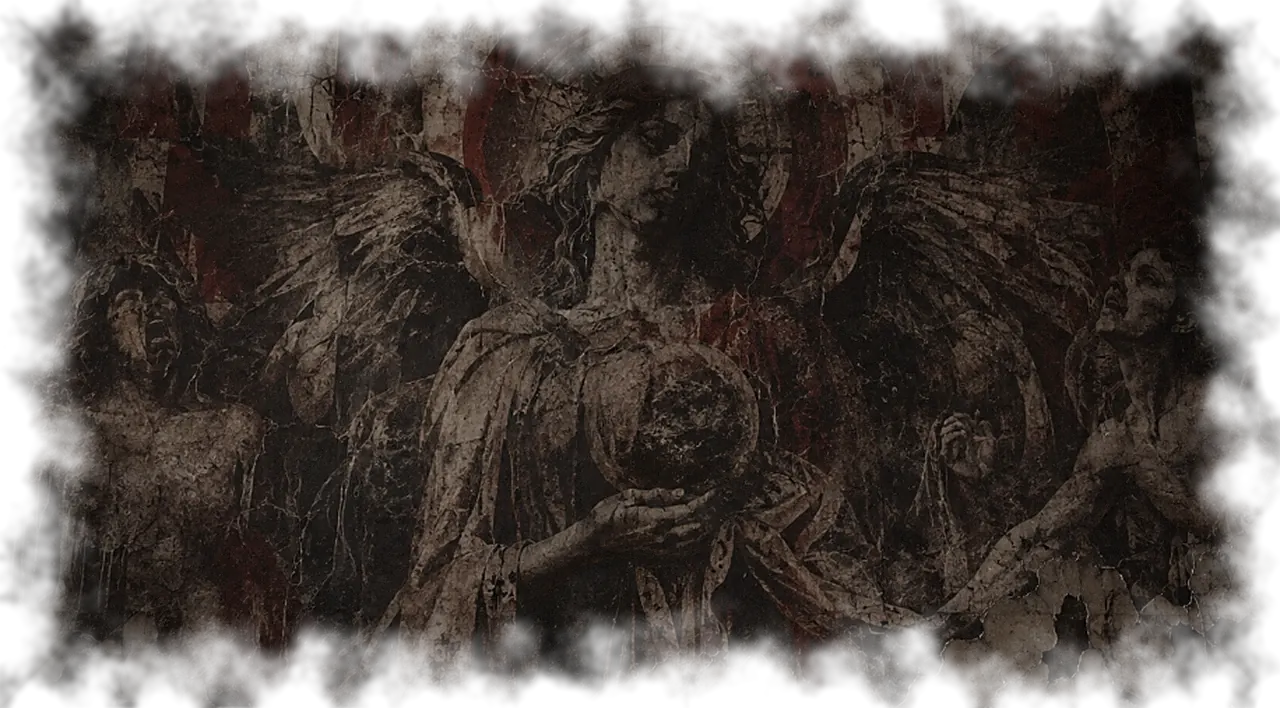
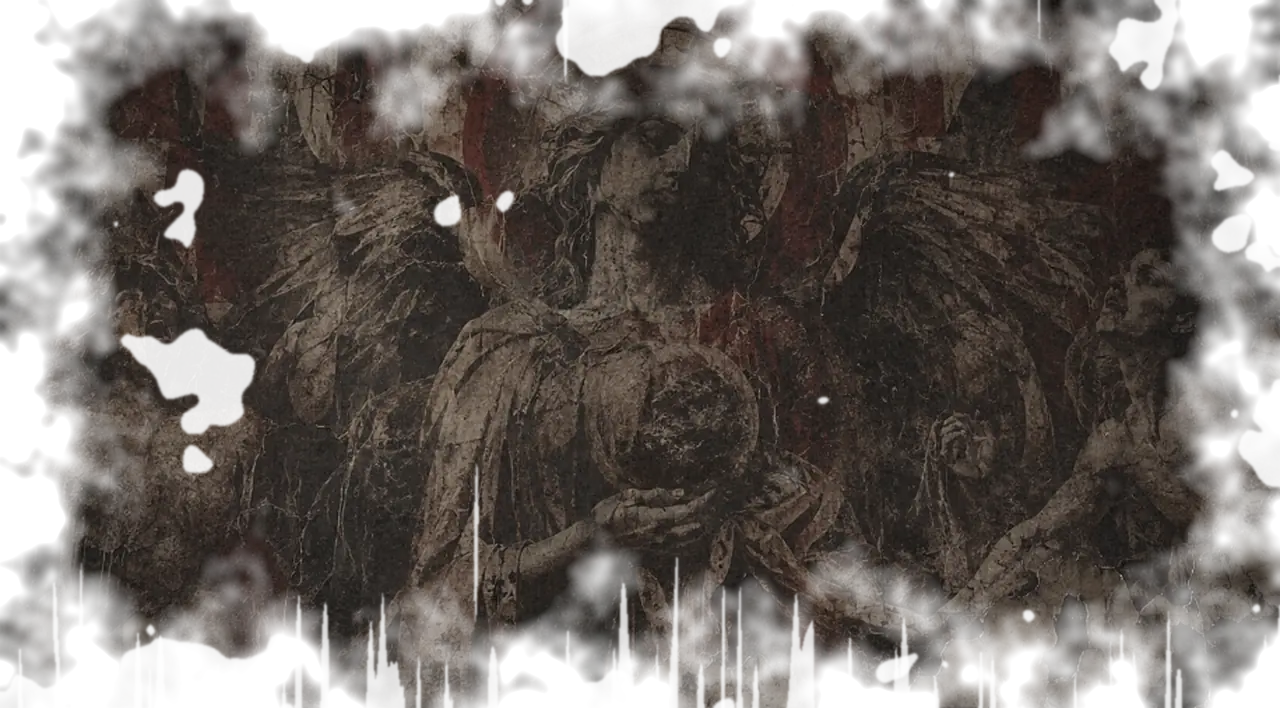
Murales: effetto affresco dipinto sul muro (bordi che si perdono, intonaco caduto, colature), non piu' carta/quadro
Claude-Session: https://claude.ai/code/session_014dApnh5cQuMdZvTWDcVASP

diff --git a/sw.js b/sw.js
@@ -2,8 +2,8 @@
  * - Shell (html/css/js/vendor/icone): precache, cache-first. Nuova versione => nuovo SW "in attesa" => banner nell'app.
  * - Asset pesanti (modelli, texture, audio): cache separata; scaricati in background dopo l'installazione.
  * Le due versioni qui sotto le aggiorna tools/bump.sh a ogni modifica (hash del contenuto): non toccarle a mano. */
-const SHELL_VERSION = 'dd8d779f20';   // @shell
-const ASSET_VERSION = 'e5281386e5';   // @assets
+const SHELL_VERSION = 'a172b86ffb';   // @shell
+const ASSET_VERSION = '2dac8a62f7';   // @assets
 const SHELL = 'ng-shell-' + SHELL_VERSION, ASSETS = 'ng-assets-' + ASSET_VERSION;
 const SHELL_FILES = ['./','./css/style.css','./icons/icon-180.png','./icons/icon-192.png','./icons/icon-32.png','./icons/icon-512.png','./icons/maskable-512.png','./index.html','./js/audio/audio.js','./js/events/ambient.js','./js/events/cellar.js','./js/events/combat.js','./js/events/dawn.js','./js/events/door.js','./js/events/glass.js','./js/events/hall.js','./js/events/morgue.js','./js/events/notes.js','./js/events/rats.js','./js/events/scare.js','./js/events/sorella.js','./js/events/tower.js','./js/events/tv.js','./js/events/ward.js','./js/events/warehouse.js','./js/main.js','./js/personal.js','./js/player/controls.js','./js/player/player.js','./js/pwa.js','./js/story.js','./js/ui/instability.js','./js/ui/rgbshift.js','./js/world/atmos.js','./js/world/blood.js','./js/world/bloodfont.js','./js/world/decor.js','./js/world/dust.js','./js/world/extra.js','./js/world/fingerwrite.js','./js/world/lights.js','./js/world/materials.js','./js/world/nun.js','./js/world/props.js','./js/world/redlight.js','./js/world/rooms.js','./js/world/tunnel.js','./manifest.webmanifest','./vendor/three/LICENSE','./vendor/three/Reflector.js','./vendor/three/loaders/GLTFLoader.js','./vendor/three/three.module.min.js','./vendor/three/utils/BufferGeometryUtils.js']; // @shellfiles
 const ASSET_FILES = ['./assets/audio/step0.mp3','./assets/audio/step1.mp3','./assets/audio/step2.mp3','./assets/audio/step3.mp3','./assets/audio/step4.mp3','./assets/models/ammo.glb','./assets/models/axe.glb','./assets/models/bin.glb','./assets/models/c_nurse.glb','./assets/models/c_occ.glb','./assets/models/cabinet.glb','./assets/models/cam.glb','./assets/models/can.glb','./assets/models/cart.glb','./assets/models/chair.glb','./assets/models/door.glb','./assets/models/gate.glb','./assets/models/hlamp.glb','./assets/models/hs_bed.glb','./assets/models/hw_door_1.glb','./assets/models/hw_wheel_chair.glb','./assets/models/kit_cables.glb','./assets/models/kit_fence.glb','./assets/models/kit_gutter.glb','./assets/models/kit_ind.glb','./assets/models/kit_manhole.glb','./assets/models/kit_pipes.glb','./assets/models/lamp.glb','./assets/models/m_bell.glb','./assets/models/m_diver.glb','./assets/models/m_nurse.glb','./assets/models/m_occ.glb','./assets/models/m_pirate.glb','./assets/models/m_root.glb','./assets/models/m_varka.glb','./assets/models/m_whisperer.glb','./assets/models/mg_chair.glb','./assets/models/mg_tool1.glb','./assets/models/mg_tool3.glb','./assets/models/mg_tool4.glb','./assets/models/mg_wall.glb','./assets/models/pistol.glb','./assets/models/rack.glb','./assets/models/rim.glb','./assets/models/seclight.glb','./assets/models/shelf.glb','./assets/models/slamp1.glb','./assets/models/slamp2.glb','./assets/models/sorella.glb','./assets/models/stool.glb','./assets/models/stove.glb','./assets/models/tank.glb','./assets/models/whisperer.glb','./assets/models/wlamp.glb','./assets/models/x_basket.glb','./assets/models/x_bust.glb','./assets/models/x_clock.glb','./assets/models/x_gnome.glb','./assets/models/x_lion.glb','./assets/models/x_micro.glb','./assets/models/x_rat.glb','./assets/models/x_screen.glb','./assets/models/x_spray.glb','./assets/models/x_tv.glb','./assets/models/x_watch.glb','./assets/tex/bath_bg.jpg','./assets/tex/blood_font.png','./assets/tex/blood_real.png','./assets/tex/brick_c.jpg','./assets/tex/brick_n.jpg','./assets/tex/brick_orm.jpg','./assets/tex/floorA_c.jpg','./assets/tex/floorA_n.jpg','./assets/tex/floorA_orm.jpg','./assets/tex/floorB_c.jpg','./assets/tex/floorB_n.jpg','./assets/tex/floorB_orm.jpg','./assets/tex/foot_l.png','./assets/tex/foot_r.png','./assets/tex/hall_bg.jpg','./assets/tex/handA.png','./assets/tex/handC.png','./assets/tex/mg_floor.jpg','./assets/tex/night_bg.jpg','./assets/tex/pic_anatomy.webp','./assets/tex/pic_charcoal.webp','./assets/tex/pic_corridor.webp','./assets/tex/pic_drawing.jpg','./assets/tex/pic_drawing2.webp','./assets/tex/pic_elisa.jpg','./assets/tex/pic_family.webp','./assets/tex/pic_mural_angel.webp','./assets/tex/pic_mural_cathedral.webp','./assets/tex/pic_mural_eyes.webp','./assets/tex/pic_mural_wide.webp','./assets/tex/pic_saint.webp','./assets/tex/pic_window.webp','./assets/tex/pic_yana.jpg','./assets/tex/rust_c.jpg','./assets/tex/rust_n.jpg','./assets/tex/rust_orm.jpg','./assets/tex/stone_c.jpg','./assets/tex/stone_n.jpg','./assets/tex/stone_orm.jpg','./assets/tex/ward_ceiling.jpg','./assets/tex/wr_elisa_1.png','./assets/tex/wr_elisa_2.png','./assets/tex/wr_elisa_3.png','./assets/tex/wr_elisa_4.png','./assets/tex/wr_elisa_h.png','./assets/tex/wr_elisa_m.png','./assets/tex/wr_elisa_o.png','./assets/tex/wr_sigil.png','./assets/tex/wr_std_c2.png','./assets/tex/wr_std_h.png','./assets/tex/wr_std_m.png','./assets/tex/wr_std_o.png','./assets/tex/wr_std_t1.png','./assets/tex/wr_std_t3.png','./assets/tex/wr_std_w4.png','./assets/tex/wr_yana_1.png','./assets/tex/wr_yana_2.png','./assets/tex/wr_yana_3.png','./assets/tex/wr_yana_4.png','./assets/tex/wr_yana_h.png','./assets/tex/wr_yana_m.png','./assets/tex/wr_yana_o.png']; // @assetfiles

diff --git a/js/main.js b/js/main.js
@@ -197,10 +197,10 @@ async function enter() {
     writingDecals(cellar.group, [pic('drawing2', 1.442, 3.96, 1.5, CZ - 10.9, '-x', 1.0, -0.03)]);
     writingDecals(morgue.group, [pic('anatomy', 0.755, 4.22, 1.5, MZ - 5.8, '-x', 0.6, 0.02), pic('charcoal', 0.756, 4.22, 1.5, MZ - 7.0, '-x', 0.55, -0.02), pic('family', 1.287, 4.22, 1.5, MZ - 8.4, '-x', 0.75, 0.02)]);
     // MURALES GIGANTI (affreschi scrostati), uno per ambiente grande, a riempire una campata intera tra due pilastri (sempre uguali in tutte le versioni)
-    writingDecals(scene, [{ ...pic('mural_wide', 3.043, 1.38, 1.1, -28.5, '-x', 5.0, 0), rot: 0 }]);                    // tunnel, parete destra
-    writingDecals(hall.group, [{ ...pic('mural_eyes', 2.368, -5.97, 2.8, -74.95, '+x', 4.7, 0), rot: 0 }]);               // sala della folla, parete sinistra
-    writingDecals(wh.group, [{ ...pic('mural_angel', 1.808, 5.94, 3.0, WZ - 24.6, '-x', 4.7, 0), rot: 0 }]);              // magazzino, parete destra
-    writingDecals(tower.group, [{ ...pic('mural_cathedral', 1.351, 6.94, 3.2, TZ - 12.6, '-x', 4.7, 0), rot: 0 }]);       // torre, parete destra
+    writingDecals(scene, [{ ...pic('mural_wide', 3.043, 1.38, 1.1, -28.5, '-x', 5.0, 0), rot: 0, a: 0.94 }]);                    // tunnel, parete destra
+    writingDecals(hall.group, [{ ...pic('mural_eyes', 2.368, -5.97, 2.8, -74.95, '+x', 4.7, 0), rot: 0, a: 0.94 }]);               // sala della folla, parete sinistra
+    writingDecals(wh.group, [{ ...pic('mural_angel', 1.808, 5.94, 3.0, WZ - 24.6, '-x', 4.7, 0), rot: 0, a: 0.94 }]);              // magazzino, parete destra
+    writingDecals(tower.group, [{ ...pic('mural_cathedral', 1.351, 6.94, 3.2, TZ - 12.6, '-x', 4.7, 0), rot: 0, a: 0.94 }]);       // torre, parete destra
     writingDecals(wh.group, [pic('corridor', 1.369, -5.96, 1.5, WZ - 11.4, '+x', 0.85, 0.02), pic('window', 1.233, -5.96, 1.5, WZ - 12.55, '+x', 0.85, -0.02), pic('saint', 0.789, -5.96, 1.5, WZ - 13.65, '+x', 0.62, 0.02)])
     if (PKEY === 'elisa') writingDecals(morgue.group, [{ img: 'assets/tex/pic_elisa.jpg', aspect: 0.545, p: [4.22, 1.5, MZ - 3.2], wall: '-x', w: 0.5, rot: -0.03, a: 1, plain: true }]);
     if (PKEY !== 'elisa') writingDecals(morgue.group, [{ img: 'assets/tex/pic_yana.jpg', aspect: 0.741, p: [4.22, 1.5, MZ - 3.2], wall: '-x', w: 0.6, rot: -0.03, a: 1, plain: true }]); }
